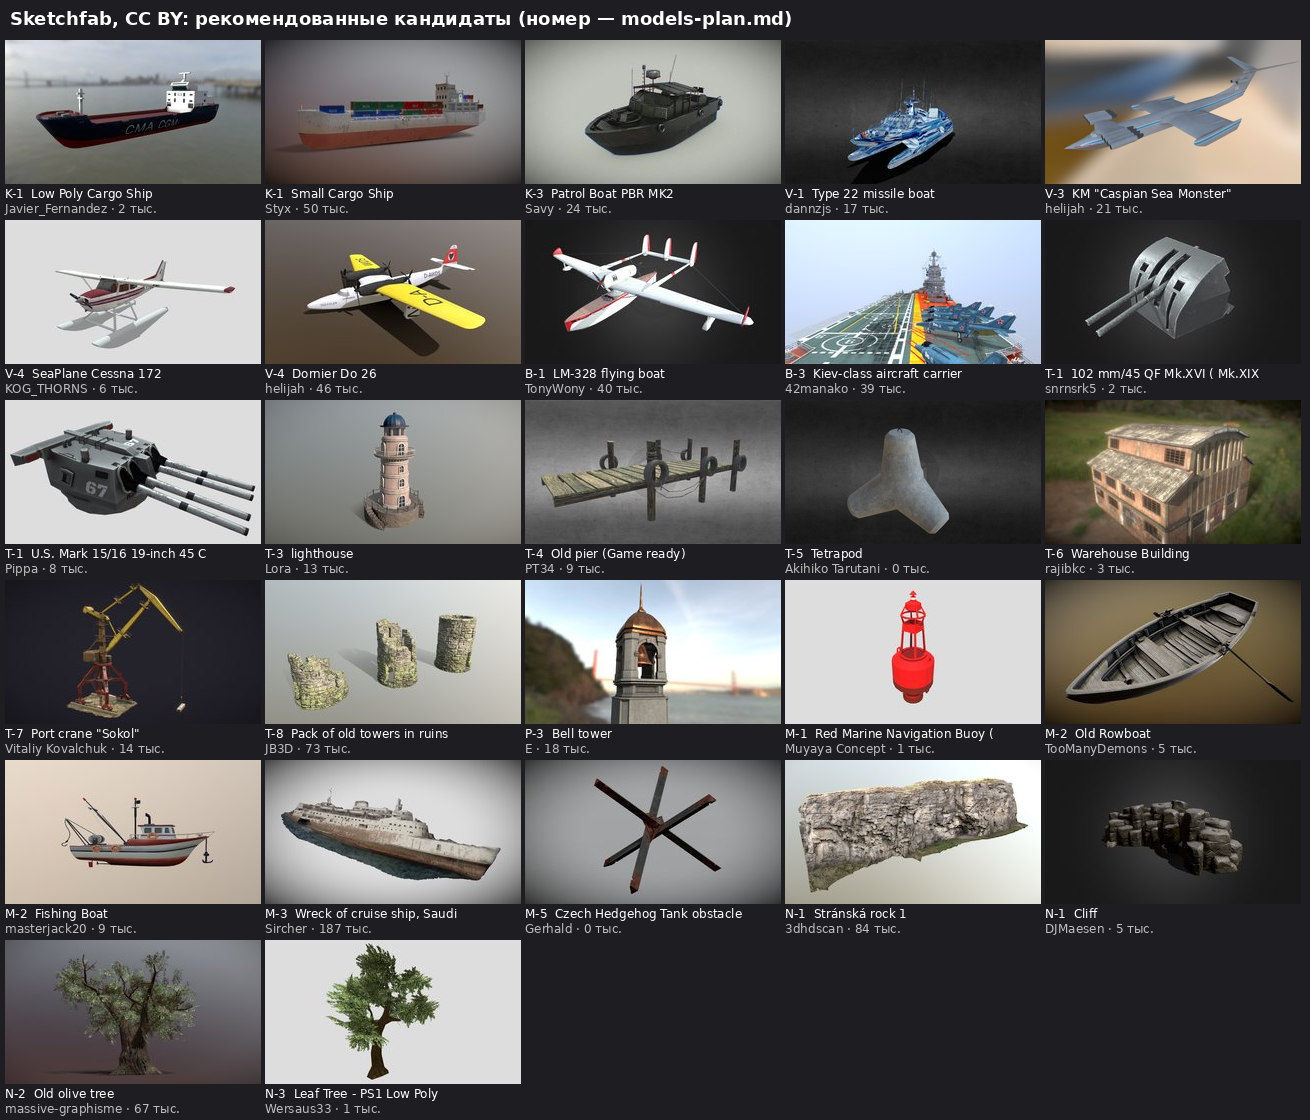
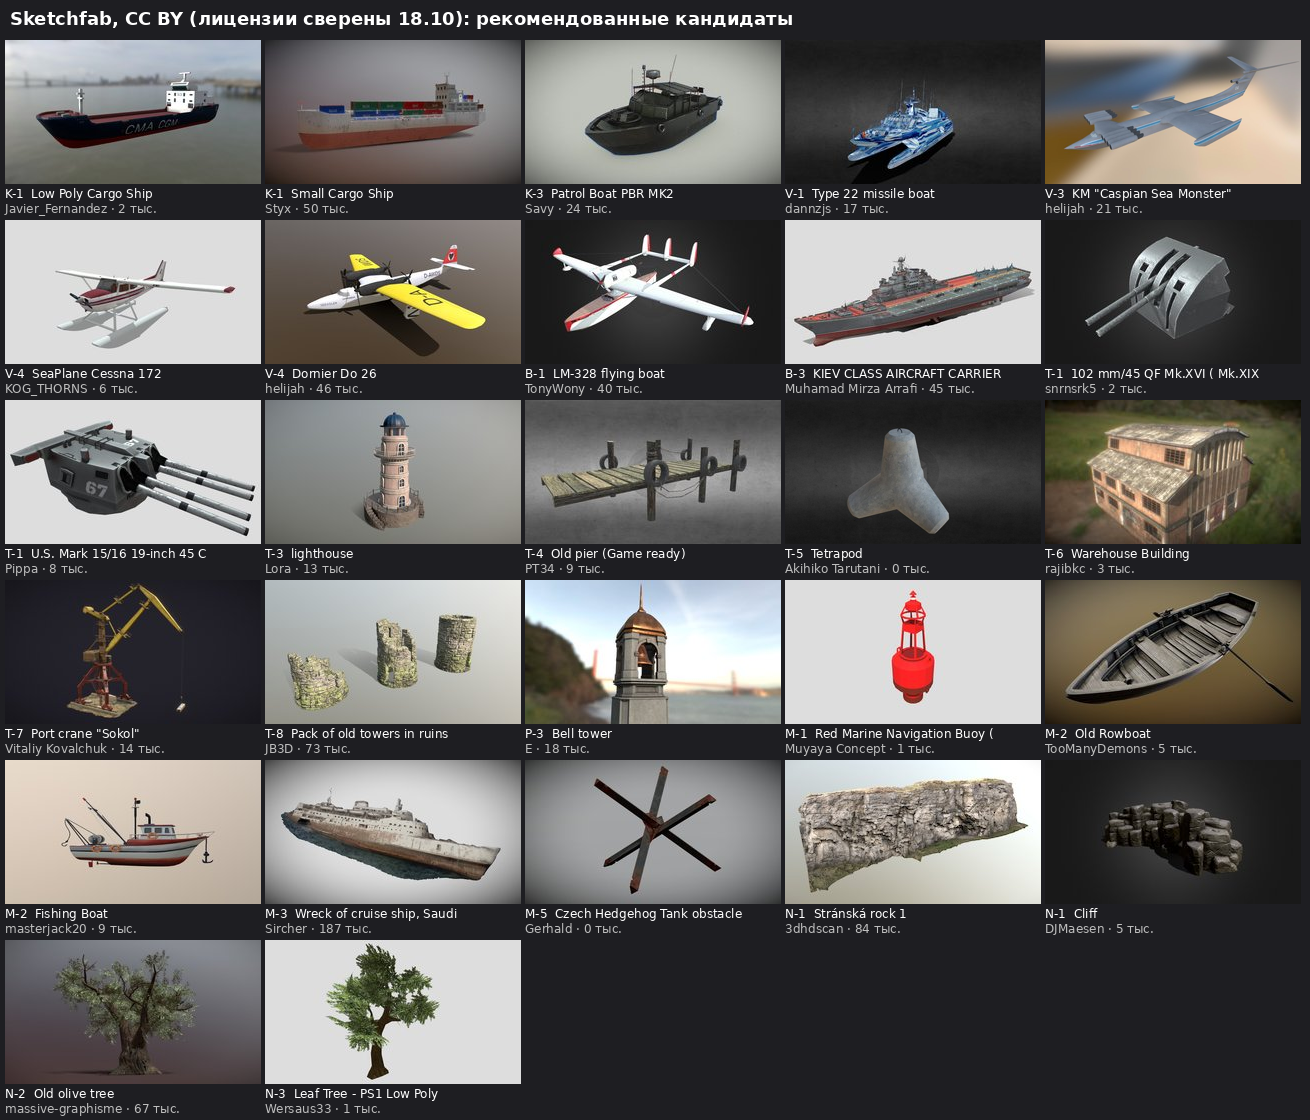
Биом 2: лицензии подборки Sketchfab сверены, две модели «из игр» убраны
Claude-Session: https://claude.ai/code/session_01Kx5L1k9Zcf83SUF46oW1nD

Changed region(s): [[0.5802, 0.1875, 0.7939, 0.375], [0.1527, 0.0, 0.6107, 0.0312]]

diff --git a/docs/biome2/sketchfab-models.md b/docs/biome2/sketchfab-models.md
@@ -2,11 +2,12 @@
 
 ![Кандидаты](img/sketchfab_picks.png)
 
-Подборка 18.10.2026 по просьбе Kanta. Номера — как в `docs/biome2/models-plan.md`. Искал только модели, которые разрешено скачивать, с лицензией **CC BY 4.0** (можно менять и продавать, автора указываем в титрах) или **CC0** (без условий). Лицензию каждой модели перед использованием сверяем ещё раз на её странице.
+Подборка 18.10.2026 по просьбе Kanta. Номера — как в `docs/biome2/models-plan.md`. Искал только модели, которые разрешено скачивать, с лицензией **CC BY 4.0** (можно менять и продавать, автора указываем в титрах) или **CC0** (без условий). **Проверка 18.10:** лицензия и разрешение на скачивание сверены на странице каждой модели (все — CC BY); описания проверены на «ripped / из игры». Две модели автора 42manako (корвет и крейсер-носитель «Kiev-class») убраны: автор пишет, что вытащил их из чужих игр, значит, лицензия CC BY на них недействительна. Перед скачиванием Kanta ещё раз смотрит на странице, что лицензия не поменялась.
 
 **Правила, как с танкером:**
 - Как есть не берём: облегчаем до бюджета боя (2–15 тыс. треугольников), перекрашиваем в наши цвета, убираем названия, номера, флаги и знаки, меняем 2–3 заметные детали силуэта (модели реальной техники — только «по мотивам»).
 - Каждая взятая модель — строка в титрах: автор, название, ссылка, «CC BY 4.0, изменено». Список ведём в `game/models/CREDITS.md` с первой модели.
+- Не берём модели, в описании которых сказано, что они взяты из игр или чужих работ (ripped, extracted), даже если стоит CC BY.
 - Скачивание на Sketchfab требует входа в аккаунт, поэтому файлы скачивает Kanta (формат glTF/GLB или .blend) и присылает в тред с номером модели.
 - Где модели нет или она плохая — собираем кодом, как планировали.
 
@@ -31,14 +32,12 @@
 | К-3 | M21 Patrol Boat | gogiart | CC BY | 253 тыс. | https://sketchfab.com/3d-models/598d3938b4214f2e9f385c29b3a3744a | тяжёлая |
 | К-5 | LCVP Higgins boat (1945) | RedC130 | CC BY | 170 тыс. | https://sketchfab.com/3d-models/92b2ec48991545f7baea8b0954489be8 | десантный бот; баржу проще кодом |
 | В-1 | Type 22 missile boat | dannzjs | CC BY | 18 тыс. | https://sketchfab.com/3d-models/d90464e6ca2e4d23a7a5a9865d220945 | катамаран — хороший силуэт для «Ската» |
-| В-1 | Nanuchka-class corvette | 42manako | CC BY | 10 тыс. | https://sketchfab.com/3d-models/81e24f73ff084a05914767dc3b7774c6 | крупнее, как запасной |
 | В-3 | KM "Caspian Sea Monster" | helijah | CC BY | 22 тыс. | https://sketchfab.com/3d-models/78de2c2921064278a320aa9f5add63fb | экраноплан, вес как раз |
 | В-4 | SeaPlane Cessna 172 | KOG_THORNS | CC BY | 6 тыс. | https://sketchfab.com/3d-models/3924196d2ccf42c0ac8458d8f16a7910 | лёгкий гидросамолёт для «Буревестника» |
 | В-4 | Dornier Do 26 | helijah | CC BY | 47 тыс. | https://sketchfab.com/3d-models/16bcea70c43b4e0198a0cb4240b715d8 | крыло «чайкой», 4 мотора |
 | Б-1 | LM-328 flying boat | TonyWony | CC BY | 40 тыс. | https://sketchfab.com/3d-models/d34a38da8ac6454cbdea645433b8d45b | летающая лодка для «Альбатроса» |
 | Б-1 | Dornier Do X | helijah | CC BY | 235 тыс. | https://sketchfab.com/3d-models/480eff9cea88495ba83bd32aa26eabde | огромная, 12 моторов |
-| Б-3 | Kiev-class aircraft carrier | 42manako | CC BY | 39 тыс. | https://sketchfab.com/3d-models/e1eed3f57d9e413299e3fe6887555764 | крейсер-носитель с ракетами — ближе всего к «Левиафану» |
-| Б-3 | KIEV CLASS AIRCRAFT CARRIER | Muhamad Mirza Arrafi | CC BY | 46 тыс. | https://sketchfab.com/3d-models/f854eda1eab54a40aae8628e6456ae78 | то же, другой автор |
+| Б-3 | KIEV CLASS AIRCRAFT CARRIER | Muhamad Mirza Arrafi | CC BY | 46 тыс. | https://sketchfab.com/3d-models/f854eda1eab54a40aae8628e6456ae78 | крейсер-носитель с ракетами — ближе всего к «Левиафану» |
 | Б-3 | Type-004 Aircraft Carrier | Muhamad Mirza Arrafi | CC BY | 30 тыс. | https://sketchfab.com/3d-models/0953bebe3ae34d7582fe0e2bcff0925f | чистый авианосец |
 | Т-1 | 102 mm/45 QF Mk.XVI | snrnsrk5 | CC BY | 3 тыс. | https://sketchfab.com/3d-models/2389fa9c28024f908eebbb16803450c3 | орудие для дворика батареи |
 | Т-1 | 150 mm/55 SK C/28 | snrnsrk5 | CC BY | 4 тыс. | https://sketchfab.com/3d-models/1a0f08246a0f4ccf832616053b3dc5e4 | башня покрупнее |
